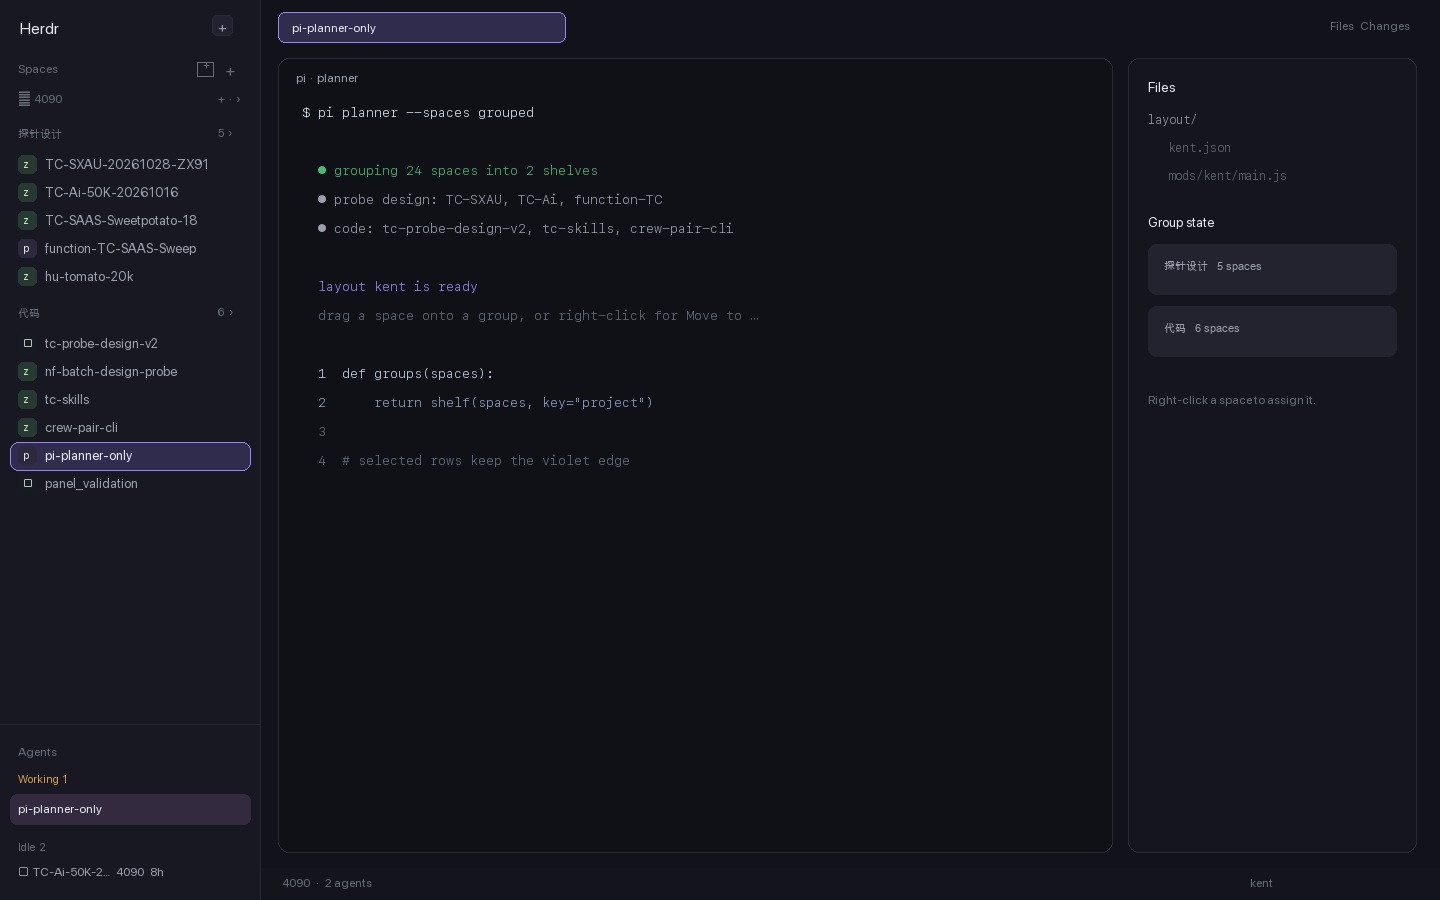
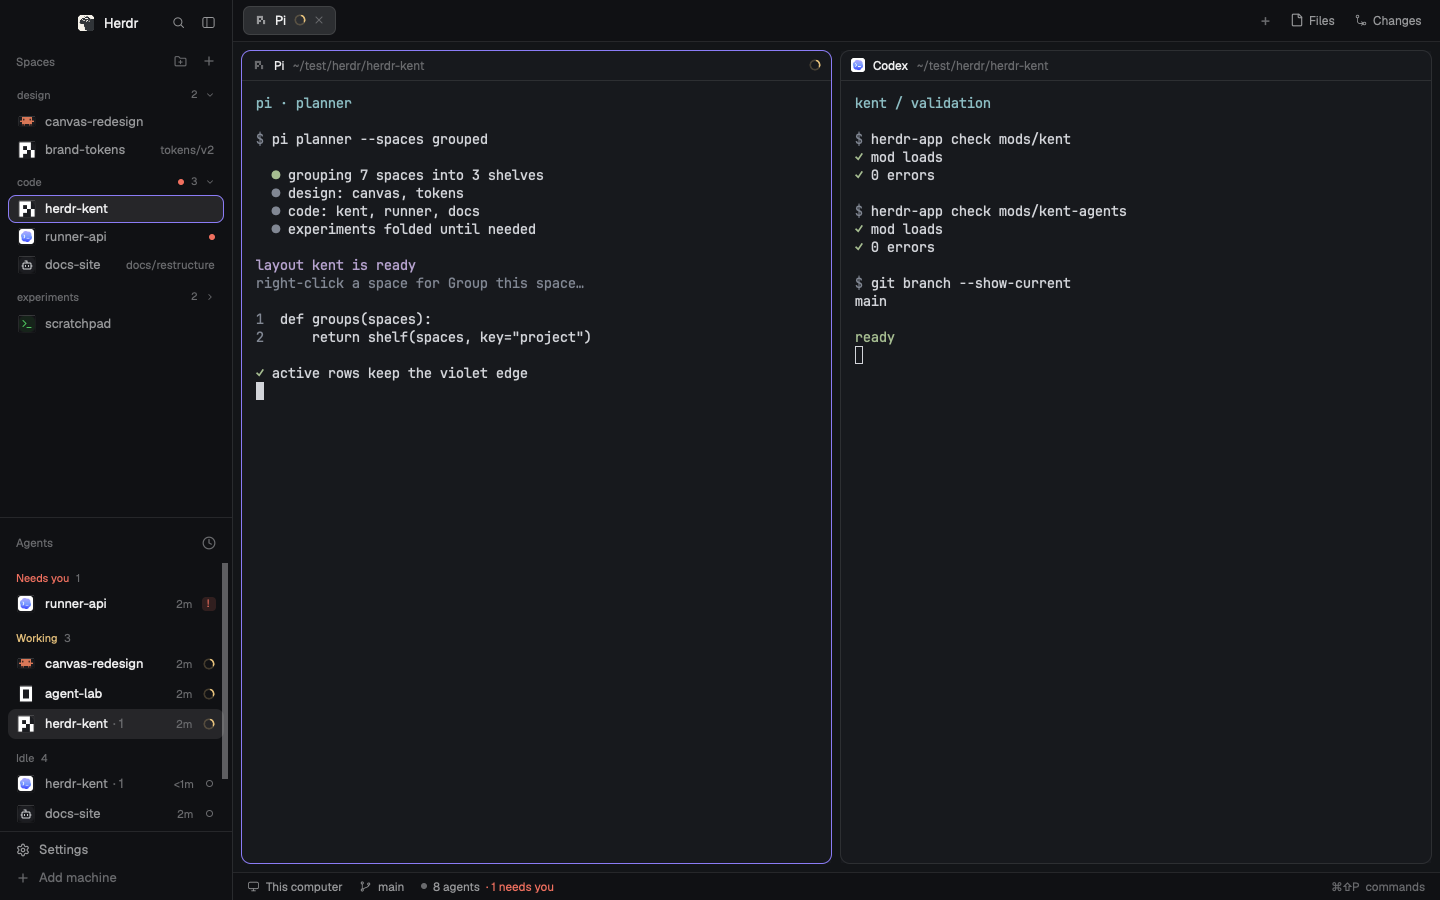
Clarify grouping action and refresh preview
The shorter menu label avoids truncation in the space menu, while the
new preview shows the layout through a real rendered window with curated
demo data instead of the synthetic mockup.

Generated with [Devin](https://devin.ai)

diff --git a/mods/kent/main.js b/mods/kent/main.js
@@ -818,7 +818,7 @@ export default class Spaces extends View {
       { separator: true },
       { label: "No group", icon: "folder", action: "assign", group: null, checked: !current },
       ...groups.map((g) => ({ label: `Move to ${g.name}`, icon: "folder", action: "assign", group: g.id, checked: current === g.id })),
-      { label: "New group with this space…", icon: "folder-plus", action: "new-group" },
+      { label: "Group this space…", icon: "folder-plus", action: "new-group" },
       { separator: true },
       { label: "Close space", icon: "x", action: "close", danger: true },
     ];

diff --git a/RECIPE.md b/RECIPE.md
@@ -19,7 +19,7 @@ A compact, theme-aware Herdr layout for people who keep many spaces open. Its Sp
 
 - Click a space to show it. Dragging a space over another row shows the violet insertion line; dropping reorders inside a group or uses Herdr's normal `space.move` behavior for loose spaces.
 - Drop a space on a group header to append it to that group. While dragging a grouped space, a “Drop here to ungroup” target appears at the bottom of the list.
-- Right-click a space for a keyboard-navigable menu: Open, Rename, No group, one “Move to …” item for each group on that machine, “New group with this space…”, and Close. On git checkouts the same menu also includes Herdr's New/Open/Remove worktree actions.
+- Right-click a space for a keyboard-navigable menu: Open, Rename, No group, one “Move to …” item for each group on that machine, “Group this space…”, and Close. On git checkouts the same menu also includes Herdr's New/Open/Remove worktree actions.
 - Right-click a group to fold/unfold, rename, move it up or down, or delete it. Deleting a group never closes spaces; they simply become ungrouped.
 - Click a group header to fold or unfold it. The command palette can also open “New space group” and “Group active space”.
 - Groups are per machine. Their names, folded state, membership and in-group order persist in shared state as `kent.groups.v1` and redraw immediately.

diff --git a/README.md b/README.md
@@ -70,7 +70,7 @@ These move through spaces in the order Kent draws them, skipping rows hidden ins
 ## Using groups
 
 - Right-click a space to open its menu.
-- Choose `New group with this space…` to create a group.
+- Choose `Group this space…` to create a group containing that space.
 - Choose `Move to …` to file the space under an existing group.
 - Choose `No group` to ungroup it.
 - Drag a space onto a group header to append it to that group.

diff --git a/README.zh-CN.md b/README.zh-CN.md
@@ -70,7 +70,7 @@ herdr-app do layout.switch '{"name":"main"}'
 ## 使用分组
 
 - 右键一个 space 打开菜单。
-- 选择 `New group with this space…` 创建新分组。
+- 选择 `Group this space…` 创建包含该空间的新分组。
 - 选择 `Move to …` 移入已有分组。
 - 选择 `No group` 移出分组。
 - 把 space 拖到分组标题上，会加入该分组。
